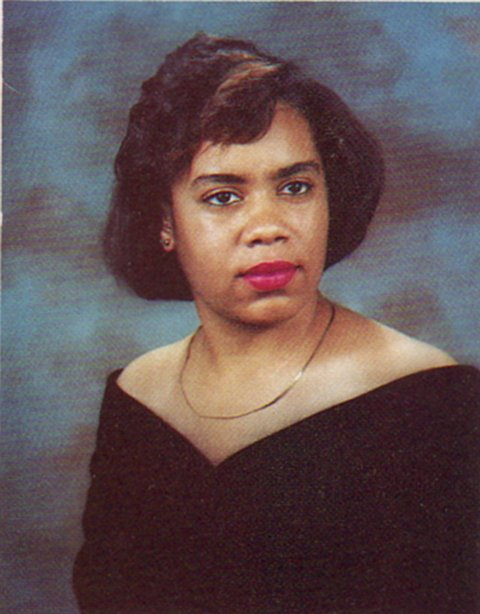
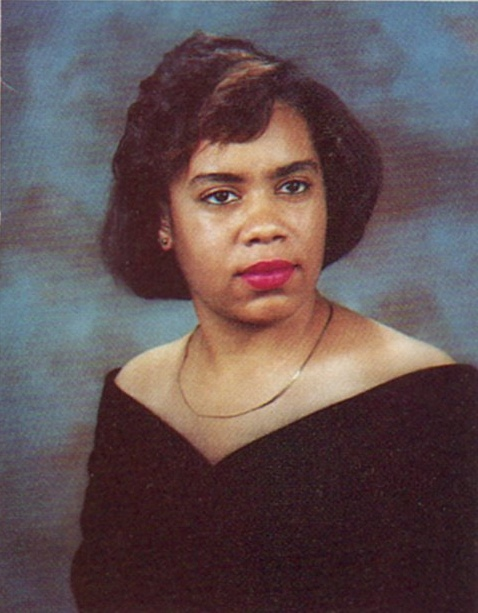
Adding missing grad portraits

diff --git a/index.html b/index.html
@@ -952,7 +952,7 @@
                     </svg>
                     <div
                         id="autocompleteDropdown"
-                        class="hidden absolute z-10 w-full mt-2 bg-white/95 backdrop-blur-sm border-2 border-gray-200 rounded-lg shadow-xl overflow-hidden"
+                        class="hidden absolute z-12 w-full mt-2 bg-white/95 backdrop-blur-sm border-2 border-gray-200 rounded-lg shadow-xl overflow-hidden"
                     ></div>
                 </div>
                 <div
@@ -991,10 +991,10 @@
                             Need a Place to Stay?
                         </h3>
                         <p class="text-sm text-slate-200 leading-relaxed mb-4">
-                            Traveling from out of town and want to skip the hotel? If you are coming in from out of town for the reunion and need a place to stay, submit a request to connect with local alumni opening up their homes for the reunion weekend!
+                            If you are coming in from out of town for the reunion and need a place to stay, submit a request to connect with local alumni opening up their homes for the reunion weekend!
                         </p>
                         <p class="text-sm text-slate-200 leading-relaxed mb-6">
-                            Prefer to book a room instead? You can explore local options on the <a href="https://www.visitberkeley.com/where-to-stay/" target="_blank" class="underline hover:text-white">Visit Berkeley website</a>. If you book a great spot, please let us know so we can suggest it to other classmates!
+                            Prefer to book a room? You can explore local options on the <a href="https://www.visitberkeley.com/where-to-stay/" target="_blank" class="underline hover:text-white">Visit Berkeley website</a>.
                         </p>
                     </div>
 
@@ -1030,7 +1030,7 @@
                             >
                             Clicking this button will open a Google Form to submit
                             your request for a place to stay during the reunion.
-                            To help make matches, all requests will be shared
+                            All requests will be shared
                             securely via a private Google Sheet accessible only to
                             verified BHS classmates later.
                         </p>
@@ -1042,7 +1042,7 @@
                     class="bg-[#991b1b] text-white p-8 rounded-2xl flex flex-col justify-between shadow-lg"
                 >
                     <h3 class="text-2xl heading-font font-bold mb-4 text-slate-100">
-                        Other Ways to Help Out
+                        Ways to Help Out
                     </h3>
                     <p class="text-sm text-slate-200 leading-relaxed mb-4">
                         We want to make this reunion truly special, and we could use your help tying up a few loose ends! If you have some spare time or old keepsakes, here is what we currently need:
@@ -1062,20 +1062,6 @@
                                 />
                             </svg>
                             <span><b>Track down classmates:</b> Check the "<a href="/missing.html" class="underline hover:text-white">Who's Missing</a>" list and use your sleuthing skills to find lost alumni.</span>
-                        </li>
-                        <li class="flex items-start gap-2">
-                            <svg
-                                class="w-5 h-5 text-bhs-gold mt-0.5 flex-shrink-0"
-                                fill="currentColor"
-                                viewBox="0 0 20 20"
-                            >
-                                <path
-                                    fill-rule="evenodd"
-                                    d="M10 18a8 8 0 100-16 8 8 0 000 16zm3.707-9.293a1 1 0 00-1.414-1.414L9 10.586 7.707 9.293a1 1 0 00-1.414 1.414l2 2a1 1 0 001.414 0l4-4z"
-                                    clip-rule="evenodd"
-                                />
-                            </svg>
-                            <span><b>Honor a classmatess:</b> Write a <a href="mailto:info@bhs40.com" class="underline hover:text-white">bio</a> or share a memory of a deceased classmate for our <a href="/memoriam.html" class="underline hover:text-white">In Memoriam page</a>.</span>
                         </li>
                         <li class="flex items-start gap-2">
                             <svg

diff --git a/src/js/memoriam.js b/src/js/memoriam.js
@@ -58,7 +58,7 @@ async function loadMemoriamData() {
       const firstName = (cols[1] || "").replace(/\s[a-z]\.?$/gi, "").trim();
       const lastName = cols[2] || "";
       const displayName = cols[12] || ""; // Column M is index 12
-
+      const rawBio = cols[13] || "";
       const status = (cols[16] || "").toLowerCase().trim();
       const photoURL = cols[17] || "default.png";
 
@@ -70,11 +70,15 @@ async function loadMemoriamData() {
         firstName: firstName,
         lastName: lastName,
         fullName: fullName,
-        bio: cols[13] || "",
+        bio: formatSmartQuotes(rawBio),
         status: status,
         photoUrl: photoURL.includes("http")
           ? photoURL
           : `/grad-thumbnails/${photoURL}`,
+        bigPhotoUrl: photoURL.includes("http")
+          ? photoURL
+          : `/grad-portraits/${photoURL}`,
+
       };
     });
 
@@ -147,7 +151,7 @@ function openModal(person) {
           </svg>
       </div>
 
-      <img src="${person.photoUrl}"
+      <img src="${person.bigPhotoUrl}"
            onerror="this.remove();"
            alt="${person.fullName}"
            class="absolute inset-0 block w-full h-full object-cover object-top z-10 sepia-[.4] contrast-[.86] brightness-[1.1]">
@@ -282,3 +286,15 @@ document.addEventListener("keydown", (e) => {
     closeModal();
   }
 });
+
+function formatSmartQuotes(text) {
+  if (!text) return "";
+
+  return text
+    // 1. Collapse 2 or more consecutive quotes into a single straight quote
+    .replace(/"+/g, '"')
+    // 2. Replace opening quotes (at start of string, or after spaces/brackets)
+    .replace(/(^|[\s(\[{])"/g, '$1“')
+    // 3. Replace any remaining straight quotes with closing quotes
+    .replace(/"/g, '”');
+}

diff --git a/memoriam.html b/memoriam.html
@@ -95,10 +95,10 @@
                     </svg>
                     Back to Reunion
                 </button>
-                <h1 class="font-serif text-3xl font-medium">In Memoriam</h1>
+                <h1 class="font-serif text-4xl font-medium">In Memoriam</h1>
                 <p class="text-muted-foreground mt-2">
                     Honoring 31 beloved classmates from the Berkeley High School
-                    Class of '86
+                    Class of '86. <br><span class="italic">Select a photo to read or share a memory.</span>
                 </p>
             </div>
         </header>

diff --git a/src/js/class-list.js b/src/js/class-list.js
@@ -99,7 +99,9 @@ async function loadDirectoryData() {
       const uid = cols[0] || ""; // Unique ID for de-duplication
 
       const displayName = cols[12] || fullName;
-      const bio = cols[13] || "";
+      const rawBio = cols[13] || "";
+      // Removes carriage returns (\r) and newlines (\n)
+      const bio = rawBio.replace(/[\r\n]+/g, " ").trim();
       const lat = cols[14] || null;
       const lng = cols[15] || null;
       const tickets = parseInt(cols[18]) || 0;
